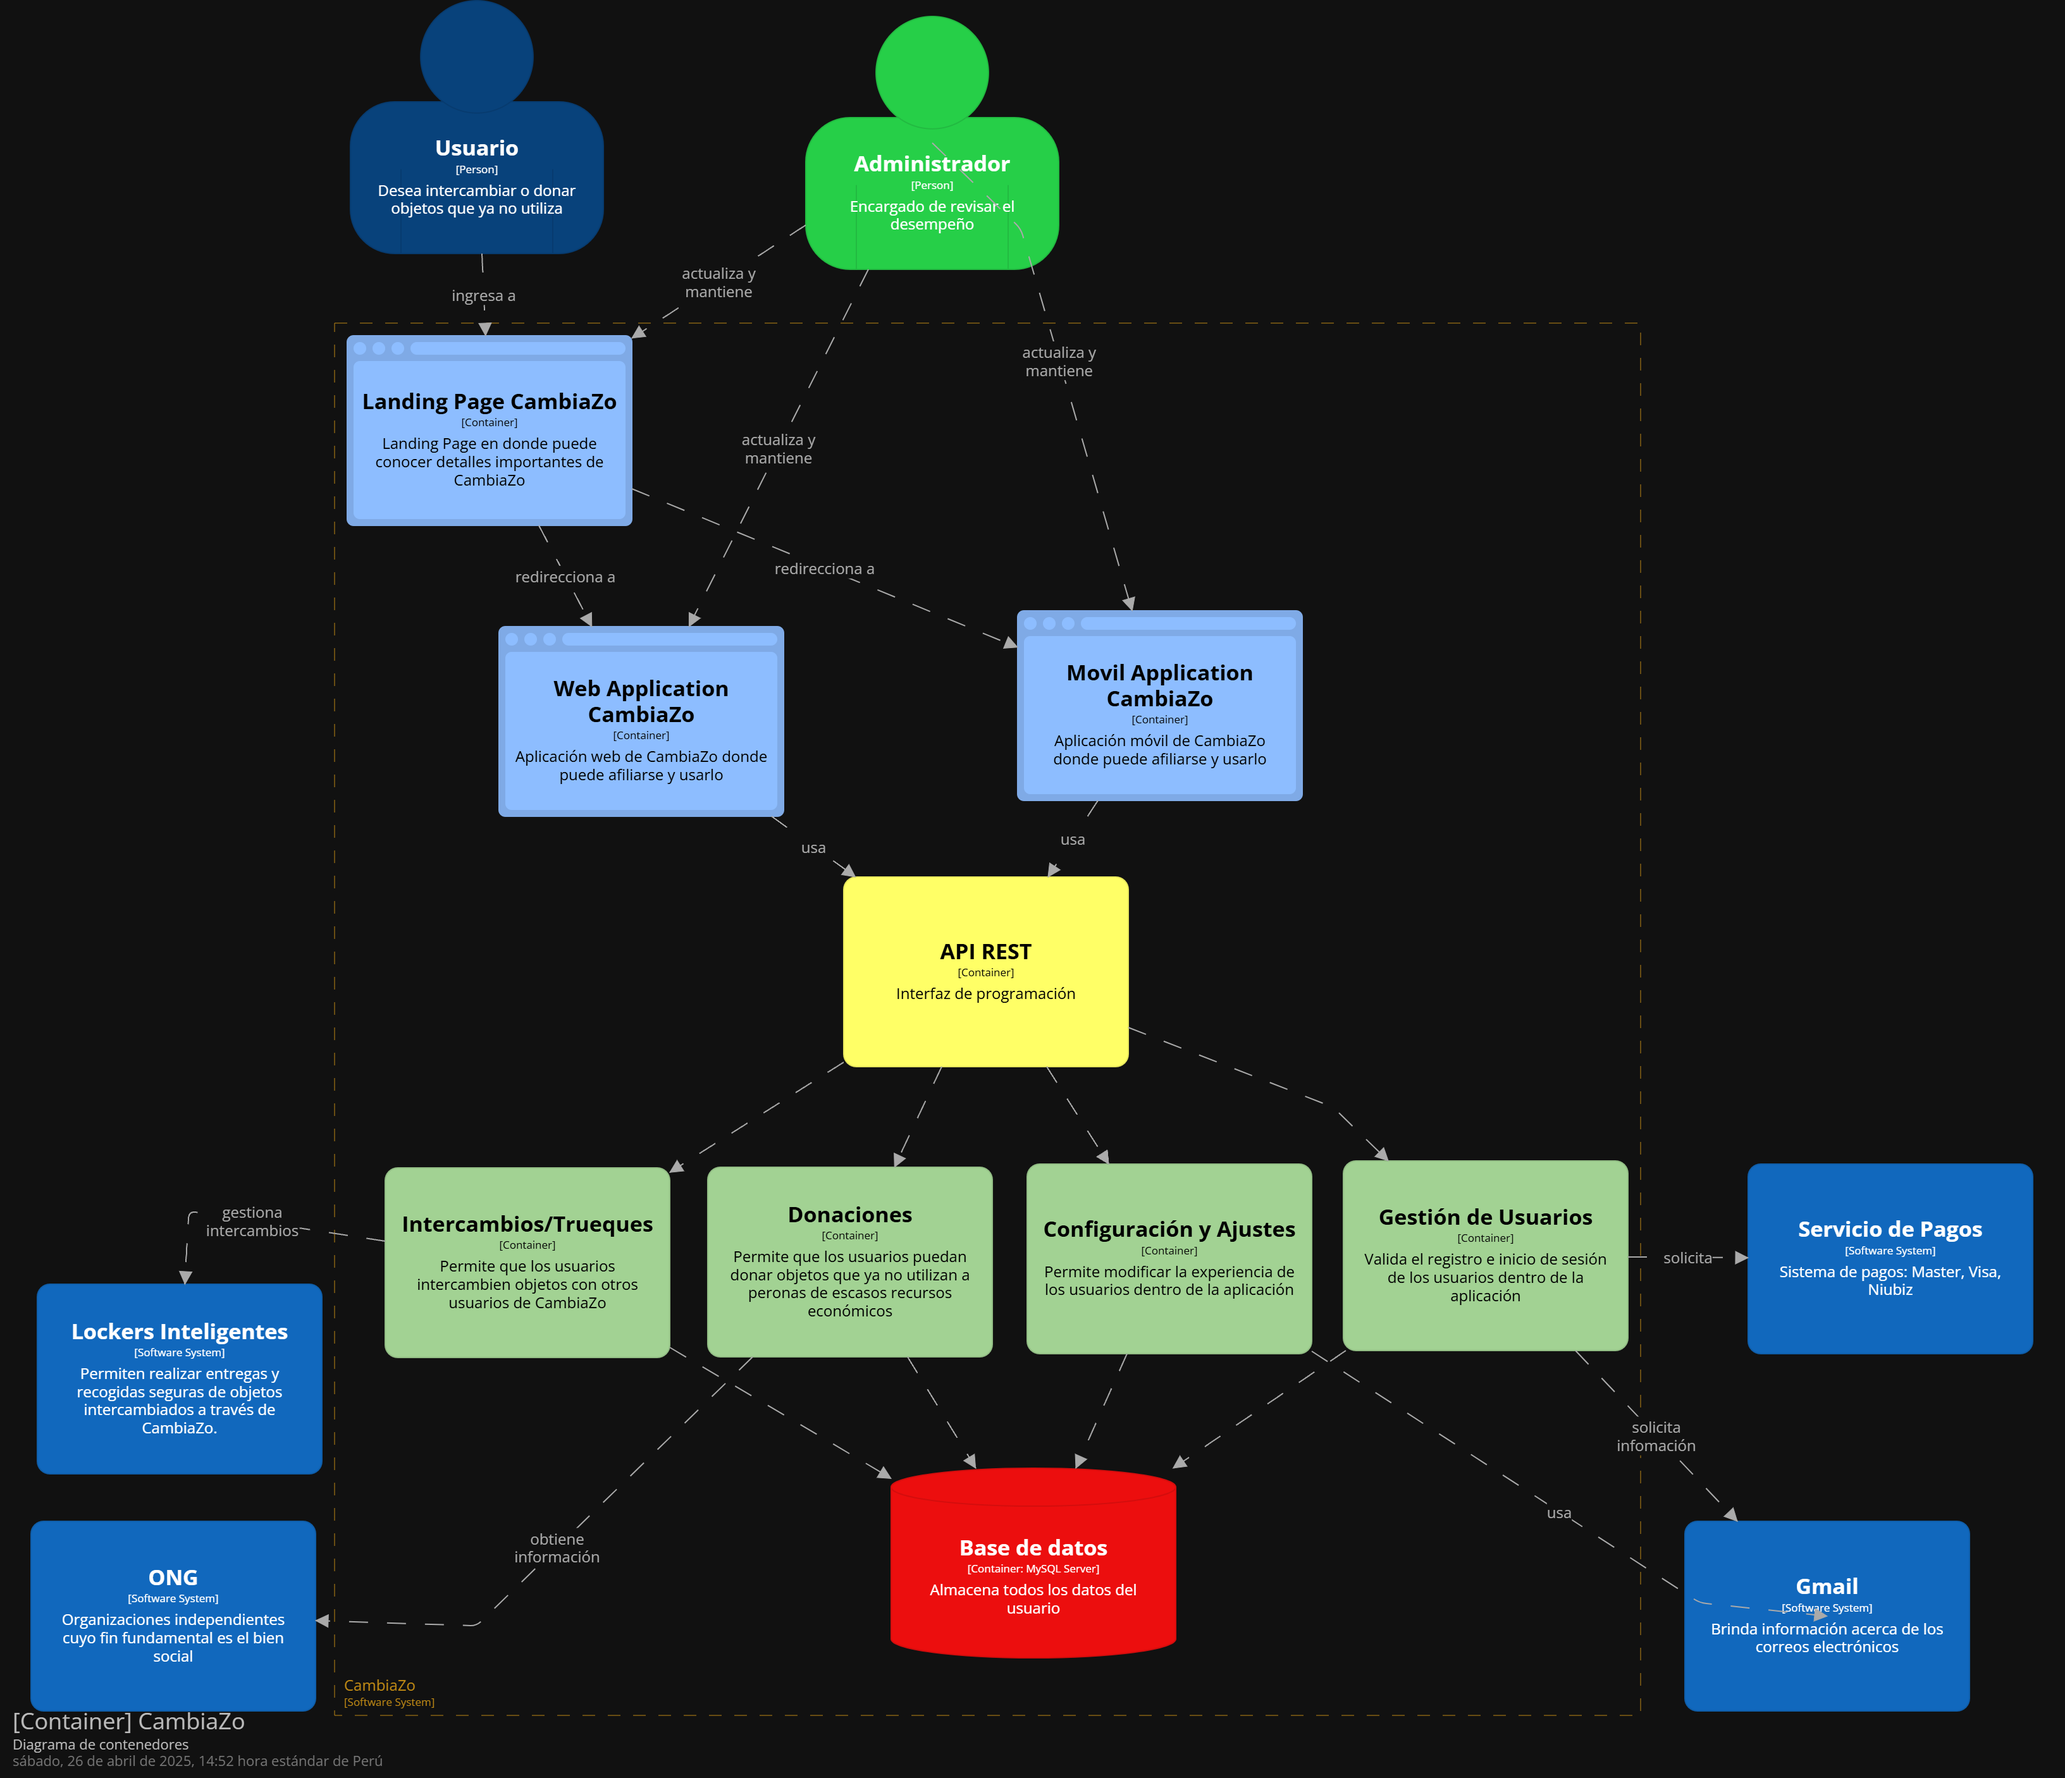
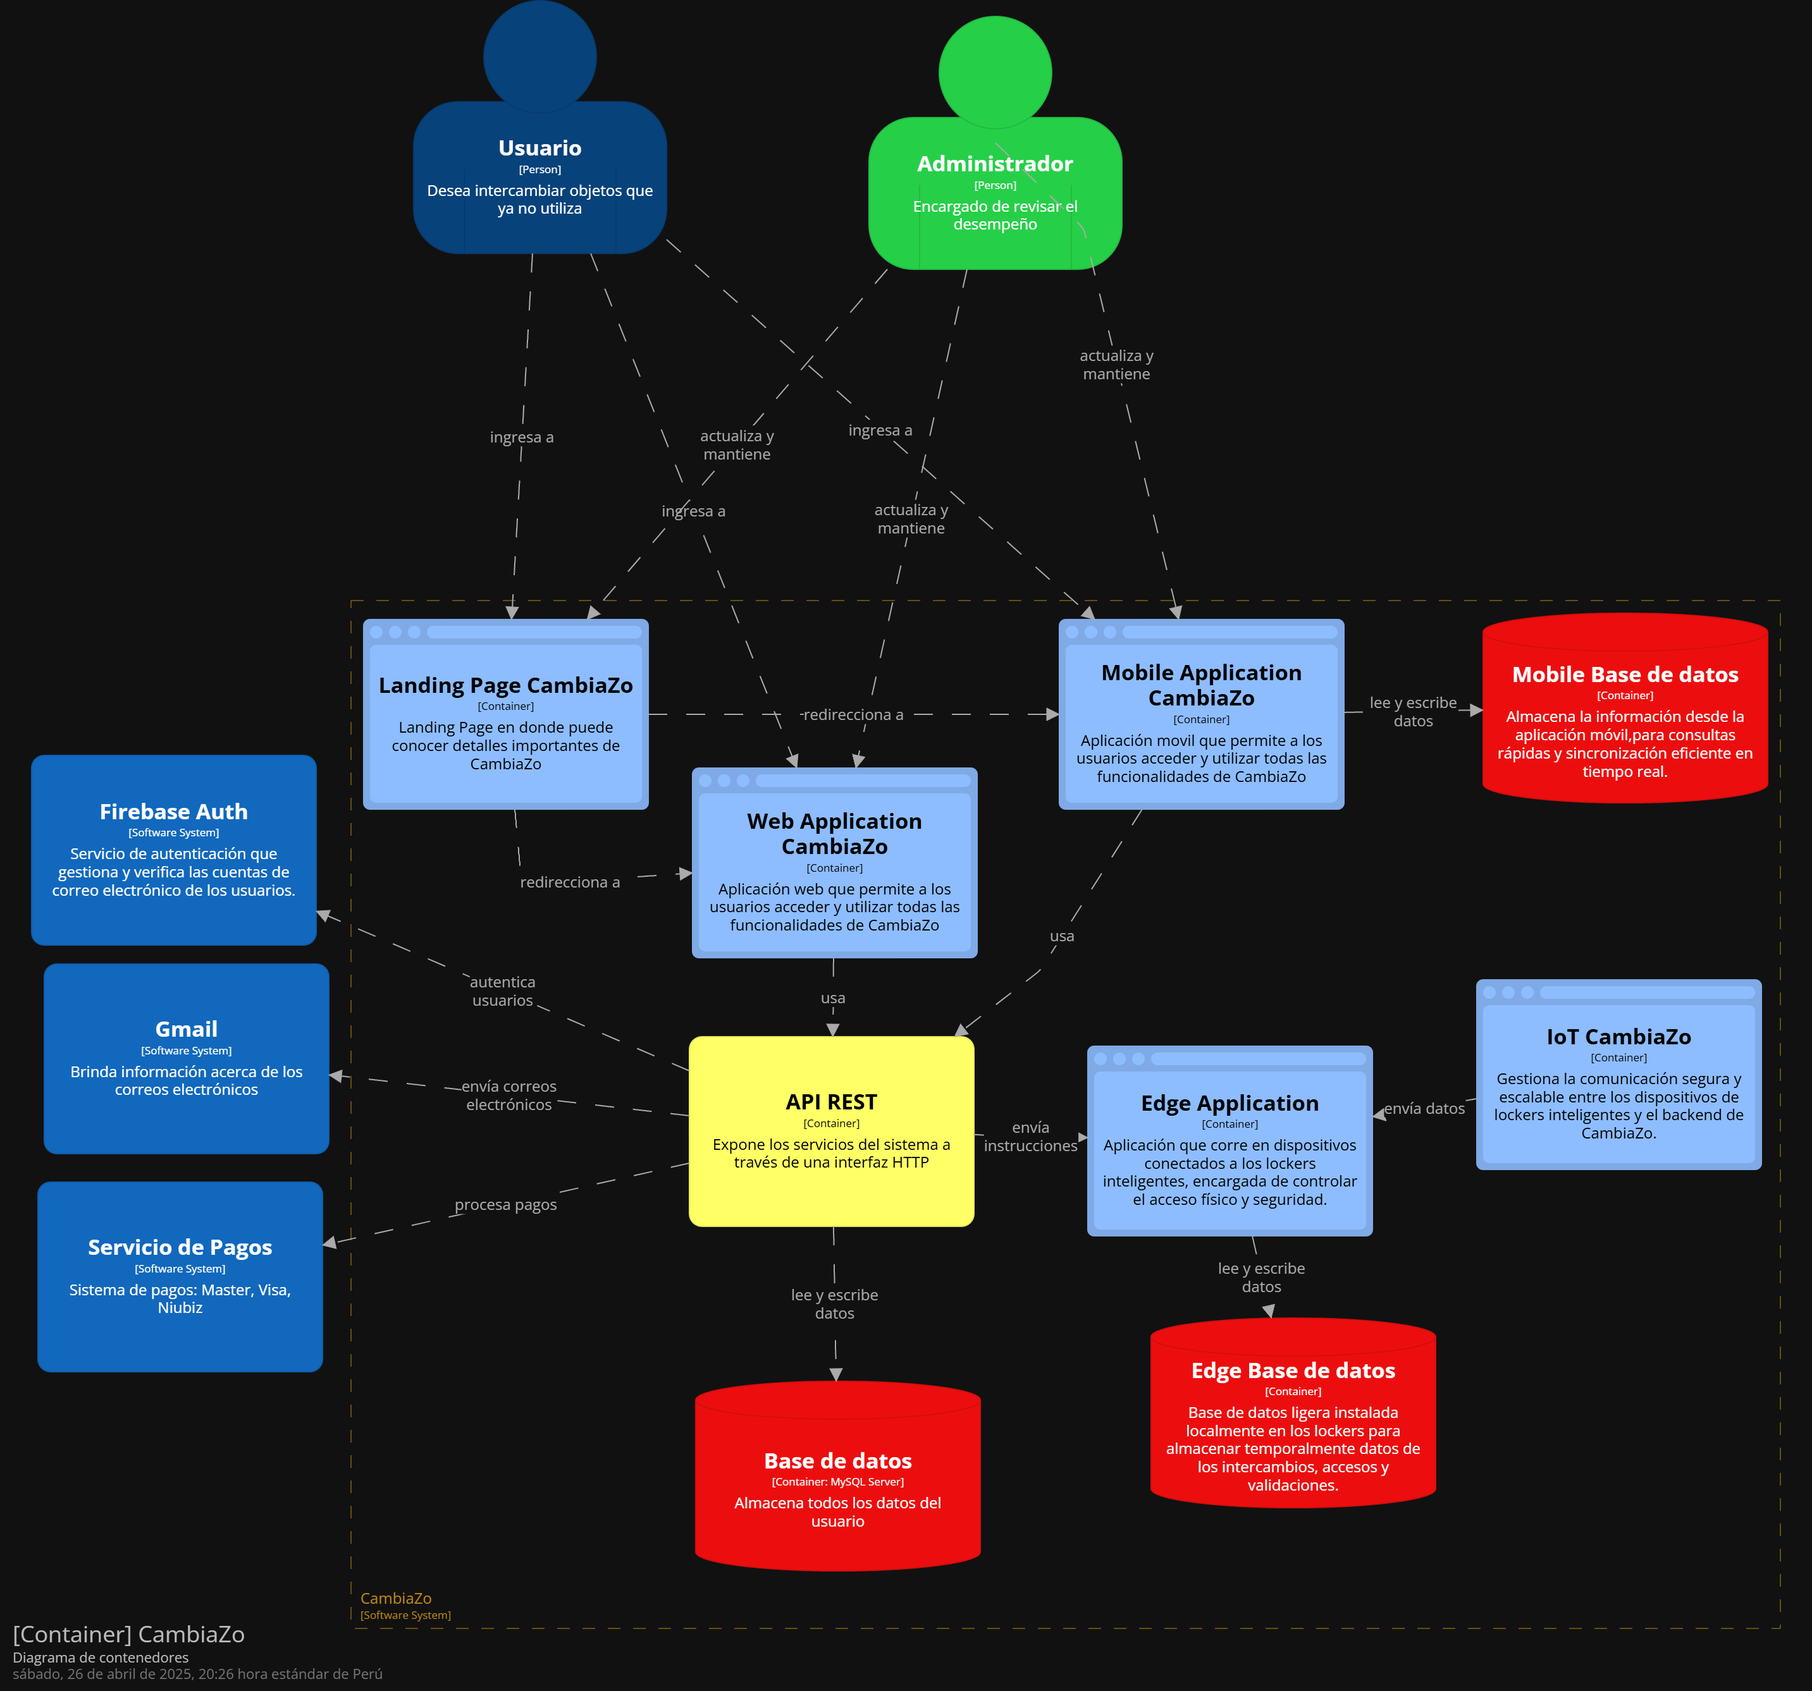
doc: fixed c4 diagrams
I've fixed c4 diagrams

diff --git a/upc-pre-202501-1ASI0572-2492-techzo-report.md b/upc-pre-202501-1ASI0572-2492-techzo-report.md
@@ -2056,38 +2056,28 @@ Aunque se enfocan en funcionalidades distintas, ambos contextos comparten elemen
 
 En esta sección emplearemos el modelo C4 para crear la arquitectura de software, considerando aspectos como el contexto, los recipientes, los elementos y la implementación. Este enfoque permite una comprensión sencilla de la arquitectura, tanto para los miembros del equipo como para las partes interesadas externas.
 
-#### 4.1.3.1 Software Architecture Context Level Diagrams
+#### 4.1.3.1. Software Architecture System Landscape Diagram.
+
+<div align="center">
+	<img src="https://github.com/TechZo-1ASI0572-2942/Report/blob/doc-tb1/Resources/Chapter-IV/Strategic-Level-Domain-Driven-Design/landscape-diagram.png?raw=true" alt="System Landscape Diagram" style="width: 600px; height: auto;"><br><br>
+</div>
+
+#### 4.1.3.2 Software Architecture Context Level Diagrams.
 
 <div align="center">
 	<img src="https://github.com/TechZo-1ASI0572-2942/Report/blob/doc-tb1/Resources/Chapter-IV/Strategic-Level-Domain-Driven-Design/context-diagram.png?raw=true" alt="Context Diagram" style="width: 600px; height: auto;"><br><br>
 </div>
 
-#### 4.1.3.2 Software Architecture Container Level Diagrams
+#### 4.1.3.3 Software Architecture Container Level Diagrams.
 
 <div align="center">
 	<img src="https://github.com/TechZo-1ASI0572-2942/Report/blob/doc-tb1/Resources/Chapter-IV/Strategic-Level-Domain-Driven-Design/container-diagram.png?raw=true" alt="Container Diagram" style="width: 600px; height: auto;"><br><br>
 </div>
 
-#### 4.1.3.3 Software Architecture Component Level Diagrams
+#### 4.1.3.4 Software Architecture Deployment Diagrams.
 
-**Exchange Component Diagram**
 <div align="center">
-	<img src="https://github.com/TechZo-1ASI0572-2942/Report/blob/doc-tb1/Resources/Chapter-IV/Strategic-Level-Domain-Driven-Design/exchange-component-diagram.png?raw=true" alt="Exchange Component Diagram" style="width: 600px; height: auto;"><br><br>
-</div>
-
-**Donation Component Diagram**
-<div align="center">
-	<img src="https://github.com/TechZo-1ASI0572-2942/Report/blob/doc-tb1/Resources/Chapter-IV/Strategic-Level-Domain-Driven-Design/donation-component-diagram.png?raw=true" alt="Donation Component Diagram" style="width: 600px; height: auto;"><br><br>
-</div>
-
-**User Management Component Diagram**
-<div align="center">
-	<img src="https://github.com/TechZo-1ASI0572-2942/Report/blob/doc-tb1/Resources/Chapter-IV/Strategic-Level-Domain-Driven-Design/user-component-diagram.png?raw=true" alt="User Component Diagram" style="width: 600px; height: auto;"><br><br>
-</div>
-
-**Configuration and Settings Component Diagram**
-<div align="center">
-	<img src="https://github.com/TechZo-1ASI0572-2942/Report/blob/doc-tb1/Resources/Chapter-IV/Strategic-Level-Domain-Driven-Design/configuration-component-diagram.png?raw=true" alt="Configuration Component Diagram" style="width: 600px; height: auto;"><br><br>
+	<img src="https://github.com/TechZo-1ASI0572-2942/Report/blob/doc-tb1/Resources/Chapter-IV/Strategic-Level-Domain-Driven-Design/deployment-diagram.png?raw=true" alt="Deployment Diagram" style="width: 600px; height: auto;"><br><br>
 </div>
 
 ## 4.2 Tactical-Level Domain-Driven Design
